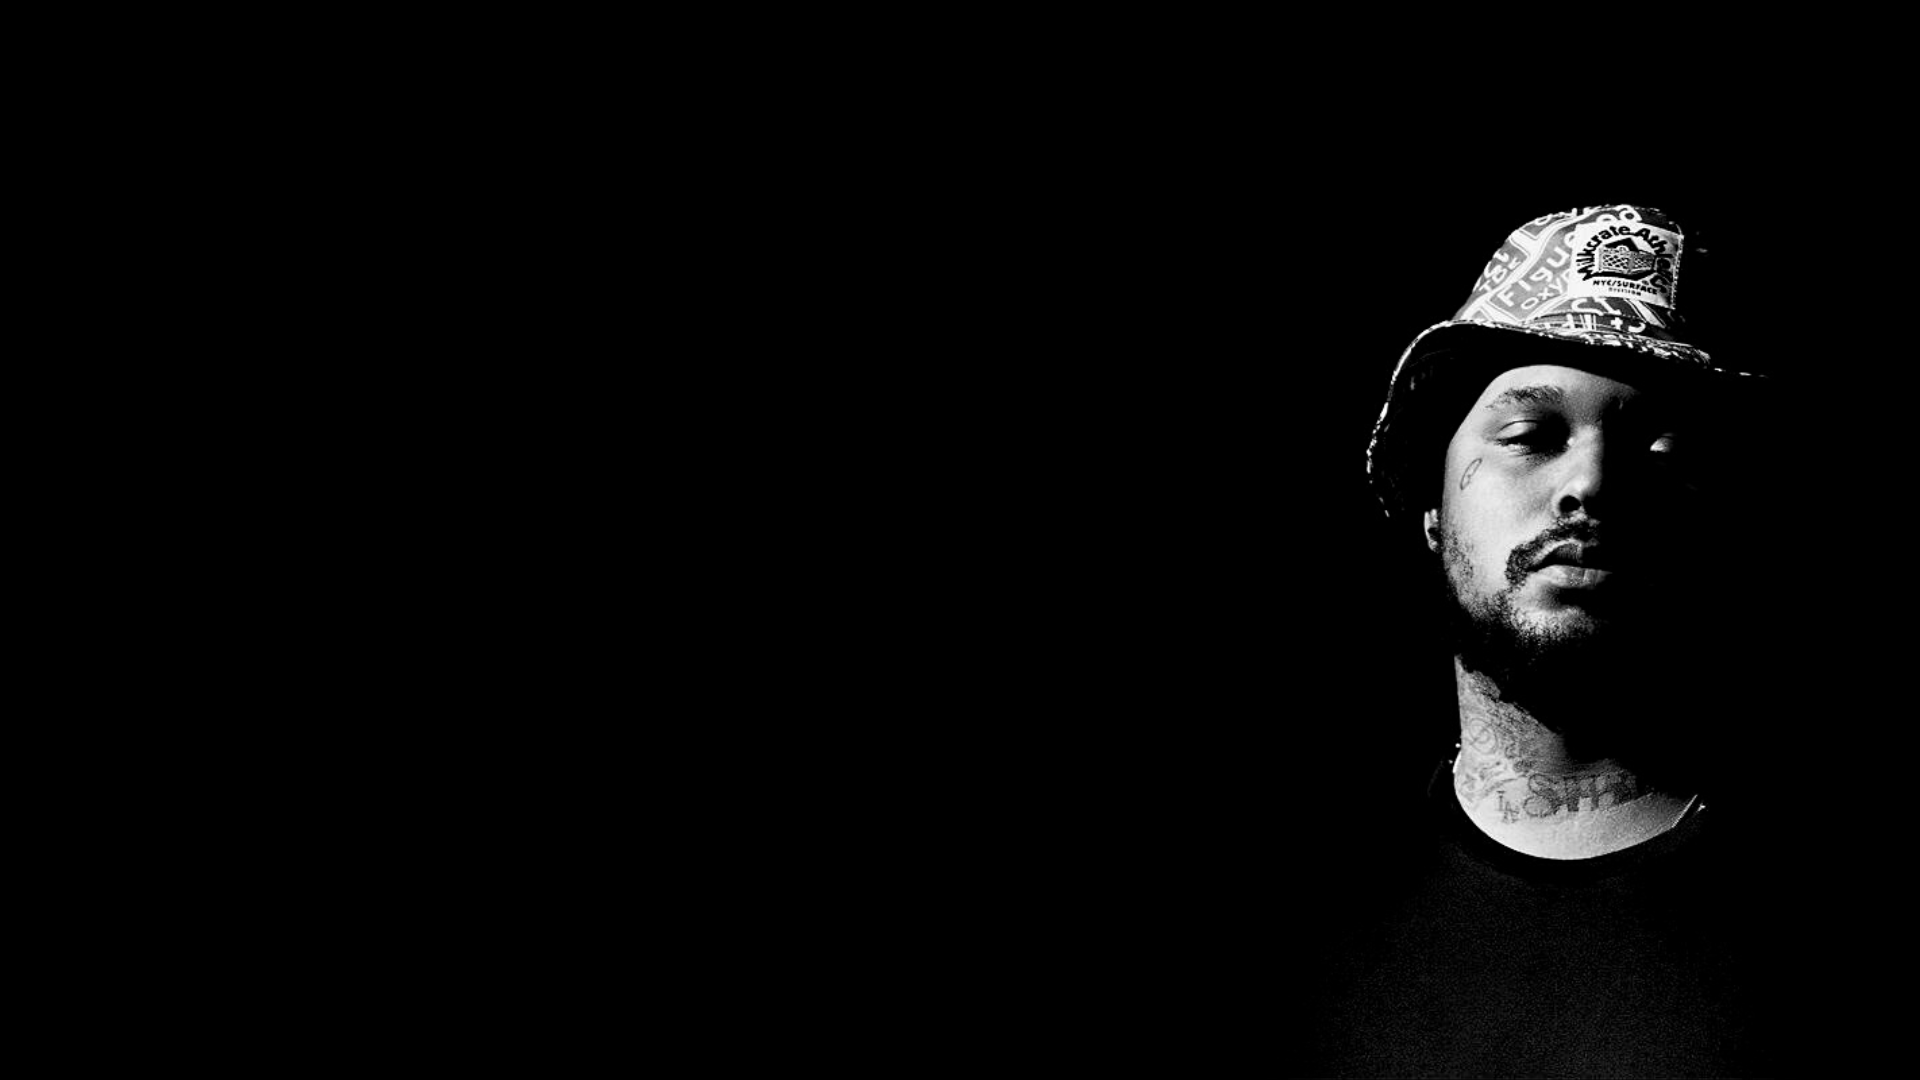
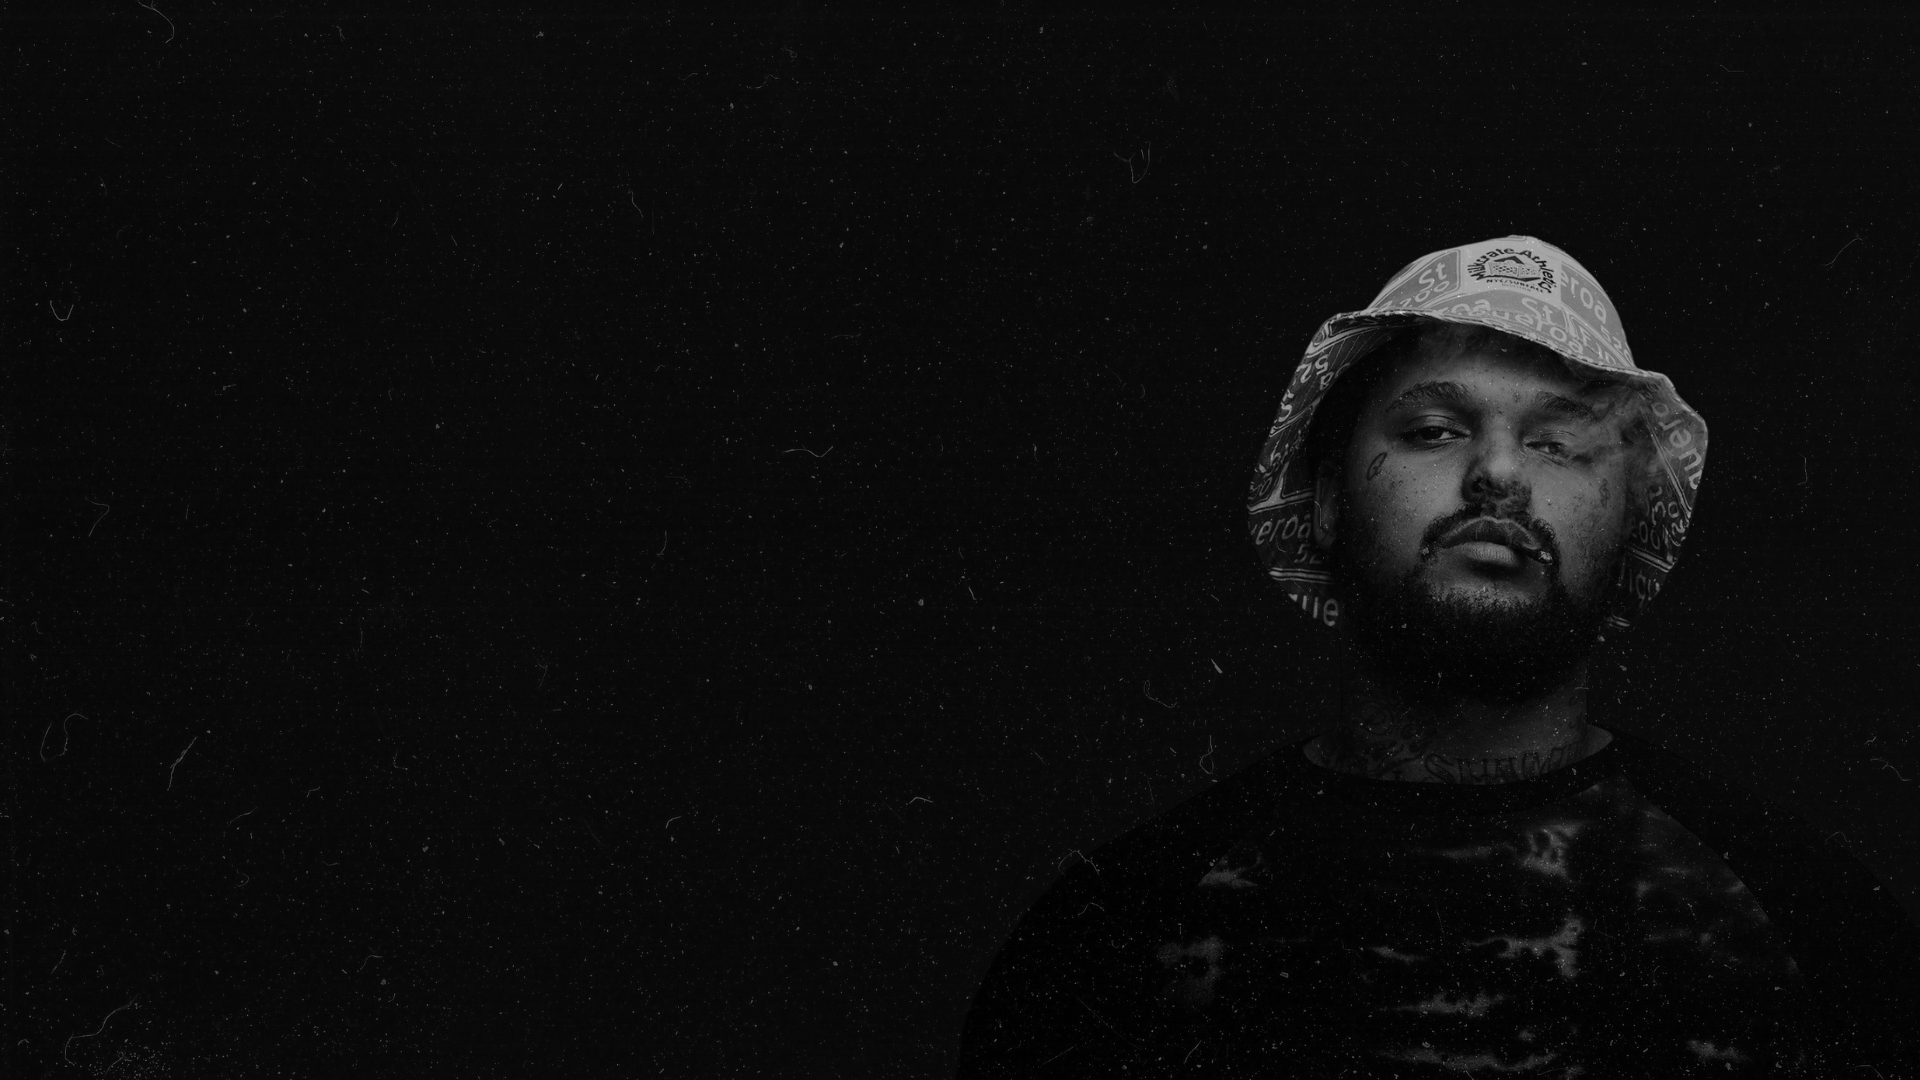
Adding new bg by artists and working styles

diff --git a/src/components/home.jsx b/src/components/home.jsx
@@ -55,38 +55,43 @@ export default function Home () {
     setSingleArtist,
     setIndex
   })
+  const css =
+  `@media (max-width: 767px) {.backimage { background-image: url(${singleArtist.smallbg}) }}   
+   @media (min-width: 768px) {.backimage { background-image: url(${singleArtist.bg}) }}`
   return (
-    <div style={{ backgroundImage: `url(${singleArtist.bg})` }} className='h-screen transform-cpu transition-all delay-200 duration-500 ease-in-out bg-center bg-cover bg-no-repeat'>
-      <Navbar
-        getTime={getTime}
-        skipTrackHandler={skipTrackHandler}
-        dragHandler={dragHandler}
-        trackAnimation={trackAnimation}
-        playSongHandler={playSongHandler}
-        currentSong={currentSong}
-        isPlaying={isPlaying}
-        setIsPlaying={setIsPlaying}
-        songInfo={songInfo}
-        setSongInfo={setSongInfo}
-        audioRef={audioRef}
-        songs={songs}
-        setSongs={setSongs}
-        singleArtist={singleArtist}
-        setSingleArtist={setSingleArtist}
-        activeLibraryHandler={activeLibraryHandler}
-        setCurrentSong={setCurrentSong}
-        timeUpdateHandler={timeUpdateHandler}
-        songEndHandler={songEndHandler}
-        artists={artists}
-        setArtists={setArtists}
-        setIndex={setIndex}
-        mutedSongHandler={mutedSongHandler}
-        isMuted={isMuted}
-        page={page}
-        setPage={setPage}
-      />
-      <div>
-        {
+    <div>
+      <style scoped>{css}</style>
+      <div className='h-screen backimage transform-cpu transition-all delay-200 duration-500 ease-in-out bg-center bg-cover bg-no-repeat'>
+        <Navbar
+          getTime={getTime}
+          skipTrackHandler={skipTrackHandler}
+          dragHandler={dragHandler}
+          trackAnimation={trackAnimation}
+          playSongHandler={playSongHandler}
+          currentSong={currentSong}
+          isPlaying={isPlaying}
+          setIsPlaying={setIsPlaying}
+          songInfo={songInfo}
+          setSongInfo={setSongInfo}
+          audioRef={audioRef}
+          songs={songs}
+          setSongs={setSongs}
+          singleArtist={singleArtist}
+          setSingleArtist={setSingleArtist}
+          activeLibraryHandler={activeLibraryHandler}
+          setCurrentSong={setCurrentSong}
+          timeUpdateHandler={timeUpdateHandler}
+          songEndHandler={songEndHandler}
+          artists={artists}
+          setArtists={setArtists}
+          setIndex={setIndex}
+          mutedSongHandler={mutedSongHandler}
+          isMuted={isMuted}
+          page={page}
+          setPage={setPage}
+        />
+        <div>
+          {
           page === 'home'
             ? <div>
               <Info singleArtist={singleArtist} />
@@ -103,9 +108,10 @@ export default function Home () {
                 setSingleArtist={setSingleArtist}
               /></div>
           }
-        <div>
-          <button className='bg-transparent fixed left-0 md:left-2 top-[50%] z-10 focus:outline-none hover:scale-[1.1] transition-all duration-100 ease-in-out' onClick={() => skipArtistHandler('skip-back')}> <BigLeft color='white' /> </button>
-          <button className='bg-transparent fixed right-0 md:right-2 top-[50%] z-10 focus:outline-none hover:scale-[1.1] transition-all duration-100 ease-in-out' onClick={() => skipArtistHandler('skip-forward')}> <BigRight color='white' /> </button>
+          <div>
+            <span className='bg-transparent fixed left-0 md:left-2 top-[50%] z-10 focus:outline-none hover:scale-[1.1] transition-all duration-100 ease-in-out' onClick={() => skipArtistHandler('skip-back')}> <BigLeft color='white' /> </span>
+            <span className='bg-transparent fixed right-0 md:right-2 top-[50%] z-10 focus:outline-none hover:scale-[1.1] transition-all duration-100 ease-in-out' onClick={() => skipArtistHandler('skip-forward')}> <BigRight color='white' /> </span>
+          </div>
         </div>
       </div>
     </div>

diff --git a/src/data/music.jsx b/src/data/music.jsx
@@ -3,11 +3,16 @@ import Kendrick from '../img/Kendirck Lamar.webp'
 import TheWeeknd from '../img/The weeknd.jpg'
 import Lana from '../img/Lana del rey.jpg'
 import Schoolboyq from '../img/schoolboy q.jpg'
-import lana from '../img/lanadelreywebdesign2.jpg'
+import lana from '../img/lanadelreywebdesign.jpg'
 import rihanna from '../img/rihannawebdesig.jpg'
-import weekend from '../img/weekend.webp'
+import weekend from '../img/theweekndwebdesign.jpg'
 import kendrick from '../img/kendricklamarwebdesign.jpg'
 import schoolboy from '../img/schoolboyqwebdesign.png'
+import smallbgLana from '../img/dise.png'
+import smallbgKendrick from '../img/kendricklamarwebdesignSmall.png'
+import smallbgRihanna from '../img/rihannawebdesignSmall.png'
+import smallbgTheWeeknd from '../img/theweekndwebdesignSmall.png'
+import smallbgSchoolboyQ from '../img/schoolboyqwebdesignSmall.png'
 
 const v4 = () => {
   const head = Date.now().toString(36)
@@ -20,6 +25,7 @@ function Music () {
       cover: Lana,
       artist: 'Lana Del Rey',
       bg: lana,
+      smallbg: smallbgLana,
       audio: [
         { id: v4(), release: '2012', name: 'Born To Die', song: 'https://naijafinix.com/wp-content/uploads/2022/09/Lana-Del-Rey-Born-To-Die-via-Naijafinix.com_.mp3?_=1', active: true },
         { id: v4(), release: '2012', name: 'Off To The Races', song: 'https://naijafinix.com/wp-content/uploads/2022/09/Lana-Del-Rey-Off-To-The-Races-via-Naijafinix.com_.mp3?_=1', active: false },
@@ -35,6 +41,7 @@ function Music () {
       cover: Kendrick,
       artist: 'Kendrick Lamar',
       bg: kendrick,
+      smallbg: smallbgKendrick,
       audio: [
         { id: v4(), release: '2022', name: 'N95', song: 'https://www.naijafinix.com.ng/wp-content/uploads/2022/06/Kendrick-Lamar-N95-via-Naijafinix.com_.mp3?_=1', active: true },
         { id: v4(), release: '2018', name: 'All The Stars Ft SZA', song: 'https://naijafinix.com/wp-content/uploads/2021/05/Kendrick-Lamar-SZA-All-The-Stars-via-Naijafinix.com_.mp3?_=1', active: false },
@@ -50,6 +57,7 @@ function Music () {
       cover: Rihanna,
       artist: 'Rihanna',
       bg: rihanna,
+      smallbg: smallbgRihanna,
       audio: [
         { id: v4(), release: '2012', name: 'Diamonds', song: 'https://www.naijafinix.com.ng/wp-content/uploads/2020/08/Rihanna-Diamonds-via-Naijafinix.com_.mp3?_=1', active: true },
         { id: v4(), release: '2007', name: 'Good Girl Gone Bad', song: 'https://www.naijafinix.com.ng/wp-content/uploads/2021/08/Rihanna-Good-Girl-Gone-Bad-via-Naijafinix.com_.mp3?_=1', active: false },
@@ -65,6 +73,7 @@ function Music () {
       cover: TheWeeknd,
       artist: 'The Weeknd',
       bg: weekend,
+      smallbg: smallbgTheWeeknd,
       audio: [
         { id: v4(), release: '2019', name: 'Blinding Lights', song: 'https://www.naijafinix.com.ng/wp-content/uploads/2022/10/The-Weeknd-Blinding-Lights-via-Naijafinix.com_.mp3?_=1', active: true },
         { id: v4(), release: '2016', name: 'Starboy Ft. Daft Punk', song: 'https://www.naijafinix.com.ng/wp-content/uploads/2022/06/The-Weeknd-Starboy-ft.-Daft-Punk-via-Naijafinix.com_.mp3?_=1', active: false },
@@ -78,8 +87,9 @@ function Music () {
     },
     {
       cover: Schoolboyq,
-      artist: 'Schoolboy q',
+      artist: 'Schoolboy Q',
       bg: schoolboy,
+      smallbg: smallbgSchoolboyQ,
       audio: [
         { id: v4(), release: '2014', name: 'Hell Of A Night', song: 'https://media.hiphopdx.com/old/singles/20130528-SchoolboyQ_Hell_Of_Night-HHDX.mp3', active: true },
         { id: v4(), release: '2014', name: 'Man Of The Year', song: 'https://24naijamusicfiles.com/wp-content/uploads/2020/11/SchoolBoy_Q_-_Man_Of_The_Year.mp3', active: false },

diff --git a/src/components/navbar.jsx b/src/components/navbar.jsx
@@ -29,9 +29,9 @@ export default function Navbar ({
     <header className='w-full pl-1 md:pl-8 xl:pl-16 h-30 md:h-20 md:flex items-center'>
       <div className='flex w-full md:w-[40%] lg:w-[50%] justify-around'>
         <a href='/'><img className='w-[80px] mt-4 md:w-[120px] h-auto' src={Logo} alt='Logo' /><p className='text-transparent fixed'>.</p></a>
-        <a onClick={() => setPage('home')} className={` ${page === 'home' ? 'text-white' : 'text-gray-200'} text-lg mt-5 font-normal cursor-pointer hover:text-white`}> Home </a>
-        <a onClick={() => setPage('playlist')} className={` ${page === 'playlist' ? 'text-white' : 'text-gray-200'} text-lg mt-5 font-normal cursor-pointer hover:text-white`}> Playlist </a>
-        <a className='text-lg mt-5 text-gray-200 font-normal cursor-pointer hover:text-white'> Upload </a>
+        <p onClick={() => setPage('home')} className={` ${page === 'home' ? 'text-white' : 'text-gray-200'} text-lg mt-5 font-normal cursor-pointer hover:text-white`}> Home </p>
+        <p onClick={() => setPage('playlist')} className={` ${page === 'playlist' ? 'text-white' : 'text-gray-200'} text-lg mt-5 font-normal cursor-pointer hover:text-white`}> Playlist </p>
+        <p className='text-lg mt-5 text-gray-200 font-normal cursor-pointer hover:text-white'> Upload </p>
       </div>
       <div className='mt-3 w-full md:w-[60%] ml-auto'>
         <h1><Music

diff --git a/src/components/music.jsx b/src/components/music.jsx
@@ -21,12 +21,12 @@ export default function Music ({
 }) {
   return (
     <div style={{ borderRightColor: singleArtist.color }} className='relative h-[90%] delay-75 text-gray-200 bg-black/50 w-full border-r-8 flex items-center'>
-      <img className='w-10 h-12 object-cover mr-2' src={singleArtist.cover} />
+      <img className='w-10 h-12 object-cover mr-2' src={singleArtist.cover} alt={singleArtist.artist} />
       <div className='flex sm:gap-2 gap-1 items-center pr-3'>
         <div className='flex sm:p-2'>
-          <button className='focus:outline-none' onClick={() => skipTrackHandler('skip-back')}> <Left /> </button>
-          <button className='focus:outline-none' onClick={playSongHandler}>{isPlaying ? <Pause /> : <Play />}</button>
-          <button className='focus:outline-none' onClick={() => skipTrackHandler('skip-forward')}> <Right /></button>
+          <span className='focus:outline-none' onClick={() => skipTrackHandler('skip-back')}> <Left /> </span>
+          <span className='focus:outline-none' onClick={playSongHandler}>{isPlaying ? <Pause /> : <Play />}</span>
+          <span className='focus:outline-none' onClick={() => skipTrackHandler('skip-forward')}> <Right /></span>
         </div>
         <div className='mx-1 sm:flex items-center text-gray-200 w-[180px] sm:w-[300px] md:w-[250px] xl:w-[350px] lg:w-[325px]'>
           <div className='flex w-[90%]'>

diff --git a/src/hooks/useLibrary.jsx b/src/hooks/useLibrary.jsx
@@ -11,7 +11,28 @@ export default function UseLibrary ({
 }) {
   const selectSongHandler = async () => {
     await setCurrentSong(song)
+    // Add Active State
+    const newSong = songs.map((song) => {
+      if (song.id === id) {
+        return {
+          ...song,
+          active: true
+        }
+      } else {
+        return {
+          ...song,
+          active: false
+        }
+      }
+    })
+    setSongs(newSong)
 
+    // Check if the song is Playing
+    if (isPlaying) audioRef.current.play()
+  }
+
+  const selectSongArtistHandler = async () => {
+    await setCurrentSong(song)
     // Add Active State
     const newSong = songs.map((song) => {
       if (song.id === id) {
@@ -33,5 +54,5 @@ export default function UseLibrary ({
     if (isPlaying) audioRef.current.play()
   }
 
-  return { selectSongHandler }
+  return { selectSongHandler, selectSongArtistHandler }
 }

diff --git a/src/components/librarySong.jsx b/src/components/librarySong.jsx
@@ -7,7 +7,8 @@ const LibrarySong = ({
   audioRef,
   isPlaying,
   id,
-  artist
+  artist,
+  setSingleArtist
 }) => {
   const { selectSongHandler } = UseLibrary({
     song,
@@ -25,10 +26,10 @@ const LibrarySong = ({
         song.active ? 'border-1 bg-black/80' : ''
       }`}
     >
-      <img className='w-10 h-12 object-cover' src={artist.cover} alt='Song Cover' />
+      <img className='object-cover' width='40px' height='48px' src={artist.cover} alt='Song Cover' />
       <div className='song-description pl-4'>
-        <h3 className='text-sm'>{song.name}</h3>
-        <h4 className='text-xs'>{artist.artist}</h4>
+        <p className='text-sm'>{song.name}</p>
+        <p className='text-xs'>{artist.artist}</p>
       </div>
     </div>
   )

diff --git a/src/components/playlist.jsx b/src/components/playlist.jsx
@@ -11,7 +11,7 @@ export default function Playlist ({
   artist,
   setSingleArtist
 }) {
-  const { selectSongHandler } = UseLibrary({
+  const { selectSongArtistHandler } = UseLibrary({
     song,
     setSongs,
     songs,
@@ -24,7 +24,7 @@ export default function Playlist ({
   })
   return (
     <div
-      onClick={selectSongHandler}
+      onClick={selectSongArtistHandler}
       className='library-song flex w-[15rem] md:w-[30vw] items-center mt-1 cursor-pointer'
     >
       <img className='w-10 h-12 object-cover' src={artist.cover} alt='Song Cover' />

diff --git a/src/components/pagePlaylist.jsx b/src/components/pagePlaylist.jsx
@@ -4,7 +4,7 @@ import Album from './album'
 export default function PagePlaylist ({ audios, setSongs, songs, setCurrentSong, audioRef, isPlaying, setSingleArtist }) {
   return (
     <div className='bg-black/70 w-[90vw] md:w-[70vw] grid grid-cols-2 gap-5 rounded-md'>
-      <div className='grid grid-cols-1 h-[55vh] overflow-y-auto'>
+      <div className='grid grid-cols-1 scrollbarDark h-[55vh] overflow-y-auto'>
         {audios.map((artist) => artist.audio.map((audio) => (
           <Playlist
             key={audio.id}

diff --git a/src/styles/global.css b/src/styles/global.css
@@ -17,3 +17,24 @@
   background: transparent;
   border: none;
 }
+
+@layer utilities {
+  .scrollbarDark::-webkit-scrollbar {
+    width: 16px;
+    height: 12px;
+  }
+
+  .scrollbarDark::-webkit-scrollbar-track {
+    background: gray;
+  }
+
+  .scrollbarDark::-webkit-scrollbar-thumb {
+    background: #27272ae6;
+    border-radius: 100vh;
+    border: 3px solid darkgray;
+  }
+
+  .scrollbarDark::-webkit-scrollbar-thumb:hover {
+    background: #27272a;
+  }
+}
